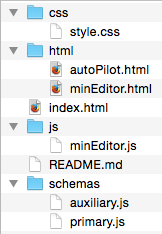
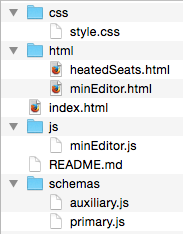
FLUID-5757: Change autoPilot to heatedSeats

diff --git a/src/documents/tutorial-prefsFramework/CreatingAPrefsEditor.md b/src/documents/tutorial-prefsFramework/CreatingAPrefsEditor.md
@@ -40,7 +40,7 @@ and navigate to the `index.html` file in a browser, you should see this interfac
 <figcaption>Figure 2: The screen of the example Preference Editor</figcaption>
 </figure>
 
-This Preference Editor has only one preference – a simple boolean setting for the car’s auto-pilot
+This Preference Editor has only one preference – a simple boolean setting for the car’s heated seats
 feature – and a ‘save’ button. Try it out: If you check the checkbox and click save, the state of
 the preference will be stored in a cookie, and when you reload the page, the checkbox will be set
 to the saved value. Go ahead, try it.
@@ -84,7 +84,7 @@ fluid.defaults("minEditor.primarySchema", {
 
     schema: {
         // the actual specification of the preference
-        "minEditor.autoPilot": {
+        "minEditor.heatedSeats": {
             "type": "boolean",
             "default": false
         }
@@ -132,10 +132,10 @@ This property is the actual JSON definition of the preferences for this Preferen
 </dl>
 
 In this particular example, only a single preference is being defined; a boolean called
-“minEditor.autoPilot”:
+“minEditor.heatedSeats”:
 
 ```javascript
-"minEditor.autoPilot": {
+"minEditor.heatedSeats": {
     "type": "boolean",
     "default": false
 }
@@ -158,7 +158,7 @@ _Coming soon: More information about these two properties_
 A [Panel](../Panels.md) is a [component](../UnderstandingInfusionComponents.md)
 responsible for rendering the user interface controls for a
 preference and tying them to the internal model that represents the preference value.
-The Panel for the auto-pilot preference control is defined in the `minEditor.js` file:
+The Panel for the heated seats preference control is defined in the `minEditor.js` file:
 <aside class="infusion-docs-callout">
 [Components](../UnderstandingInfusionComponents.md) are the core building-blocks of
 any Infusion application.
@@ -169,39 +169,39 @@ relationship between other components.
 
 ```javascript
 /**
- * Panel for the auto-pilot preference
+ * Panel for the heated seats preference
  */
-fluid.defaults("minEditor.panels.autoPilot", {
+fluid.defaults("minEditor.panels.heatedSeats", {
     gradeNames: ["fluid.prefs.panel"],
 
     // the Preference Map maps the information in the primary schema to this panel
     preferenceMap: {
         // the key must match the name of the pref in the primary schema
-        "minEditor.autoPilot": {
-            // this key, "model.autoPilot", is the path into the panel's model
+        "minEditor.heatedSeats": {
+            // this key, "model.heatedSeats", is the path into the panel's model
             // where this preference is stored
-            "model.autoPilot": "default"
+            "model.heatedSeats": "default"
         }
     },
 
     // selectors identify elements in the DOM that need to be accessed by the code;
     // in this case, the Renderer will render data into these particular elements
     selectors: {
-        autoPilot: ".mec-autoPilot"
+        heatedSeats: ".mec-heatedSeats"
     },
 
     // the ProtoTree is basically instructions to the Renderer
     // the keys in the protoTree match the selectors above
     protoTree: {
-        // "${autoPilot}" is a reference to the last part of the model path in the preferenceMap
-        autoPilot: "${autoPilot}"
+        // "${heatedSeats}" is a reference to the last part of the model path in the preferenceMap
+        heatedSeats: "${heatedSeats}"
     }
 });
 ```
 In this code snippet, the Panel is created using a call to the Infusion Framework function
 `fluid.defaults()`, just as the Primary Schema was. As with the Primary Schema, the call to
 `fluid.defaults()` is passed two arguments:
-1. a string name (`"minEditor.panels.autoPilot"`), and
+1. a string name (`"minEditor.panels.heatedSeats"`), and
 2. a JavaScript object containing options for configuring the component – in this case, the Panel.
 
 The screenshot in Figure 2 (above) shows what the Panel looks like to the user: A single checkbox
@@ -219,21 +219,21 @@ into your Panel.Let’s look at this one more closely:
 <pre class="highlight">
 <code class="hljs javascript">{
 preferenceMap: {
-    "minEditor.autoPilot": {
-        "model.autoPilot": "default"
+    "minEditor.heatedSeats": {
+        "model.heatedSeats": "default"
     }
 },</code></pre>
 
-The first line of the  Preference Map, `“minEditor.autoPilot”`, is the name of the preference.
+The first line of the  Preference Map, `“minEditor.heatedSeats”`, is the name of the preference.
 This exactly matches the name we saw in the Primary Schema earlier. The value for this
 key is a JavaScript object that defines how this particular preference relates to the Panel’s
 internal data model.
 
 The content of this  Preference Map is a key/value pair:
 <ul>
-<li> The key, `“model.autoPilot”`, is an [EL path](../FrameworkConcepts.md#el-paths) into the
+<li> The key, `“model.heatedSeats”`, is an [EL path](../FrameworkConcepts.md#el-paths) into the
 Panel’s data model. An “EL path” is just a
-dot-separated path built from names. In this case, it means “the `autoPilot`
+dot-separated path built from names. In this case, it means “the `heatedSeats`
 property of the [`model`](../FrameworkConcepts.md#model-objects) property” of the Panel.
 <aside class="infusion-docs-callout">
 [Models](../FrameworkConcepts.md#model-objects) are central to Infusion, which,
@@ -246,8 +246,8 @@ Most Infusion components have an internal model, for maintaining the state of th
 </ul>
 This  Preference Map is saying two things:
 <ol>
-<li>The preference called `“minEditor.autoPilot”` should be stored in the Panel’s model
-in a property called `autoPilot`, and</li>
+<li>The preference called `“minEditor.heatedSeats”` should be stored in the Panel’s model
+in a property called `heatedSeats`, and</li>
 <li>the initial value for the property should be taken from the `“default”` property
 of the Primary Schema.</li>
 </ul>
@@ -265,24 +265,24 @@ on the information in this `selectors` option.
 Let’s look at this more closely:
 <pre class="highlight">
 <code class="hljs javascript">selectors: {
-    autoPilot: ".mec-autoPilot"
+    heatedSeats: ".mec-heatedSeats"
 },</code></pre>
 
 The content of a `selectors` property is a set of key/value pairs. The key is the ‘name’ of the
 selector and the value is the selector itself. This property has only one selector,
-named `autoPilot`. The value is the CSS selector `".mec-autoPilot"`.
+named `heatedSeats`. The value is the CSS selector `".mec-heatedSeats"`.
 This selector references the actual checkbox in the template for the Panel.
-This template is found in the `html/autoPilot.html` file, which looks like this:
+This template is found in the `html/heatedSeats.html` file, which looks like this:
 
 <pre class="highlight">
 <code class="hljs html">&lt;section class="me-panel"&gt;
-    &lt;h2&gt;Auto-Pilot&lt;/h2&gt;
+    &lt;h2&gt;Heated Seats&lt;/h2&gt;
 
-    &lt;label for="minEditor-autoPilot"&gt;Enable the auto-pilot when the car starts&lt;/label&gt;
-    &lt;input type="checkbox" id="minEditor-autoPilot" class="mec-autoPilot"/&gt;
+    &lt;label for="minEditor-heatedSeats"&gt;Enable the heated seats when the car starts&lt;/label&gt;
+    &lt;input type="checkbox" id="minEditor-heatedSeats" class="mec-heatedSeats"/&gt;
 &lt;/section&gt;</code></pre>
 
-You can see the `“mec-autoPilot”` class name on the `<input>` element.
+You can see the `“mec-heatedSeats”` class name on the `<input>` element.
 </dd>
 <dt>`protoTree`</dt>
 <dd>
@@ -292,16 +292,16 @@ The _[protoTree](../RendererComponentTrees.md)_ is the instructions for how the 
 Let’s look at this more closely:
 <pre class="highlight">
 <code class="hljs javascript">protoTree: {
-    autoPilot: "${autoPilot}"
+    heatedSeats: "${heatedSeats}"
 }</code></pre>
 
 A protoTree contains key/value pairs, where
 * the key is a selector _name_ specified in the `selectors` option, and
 * the value is the specification for what to render into the DOM node referenced by the selector.
 
-Here, the one key `autoPilot` refers to the selector named autoPilot
+Here, the one key `heatedSeats` refers to the selector named heatedSeats
 i.e. the reference to the checkbox in the HTML template.
-The value is a reference to the `autoPilot` property of Panel’s data model.
+The value is a reference to the `heatedSeats` property of Panel’s data model.
 In the Infusion Framework, an _IoC reference_ (IoC stands for Inversion of Control) is a reference
 to an object in the current context using a particular syntax – specifically, the form `{context-name}.some.path.segments`.
 _Coming soon: More information about IoC references._
@@ -341,18 +341,18 @@ auxiliarySchema: {
     // the main template for the preference editor itself
     template: "%templatePrefix/minEditor.html",
 
-    autoPilot: {
+    heatedSeats: {
         // this 'type' must match the name of the pref in the primary schema
-        type: "minEditor.autoPilot",
+        type: "minEditor.heatedSeats",
         panel: {
             // this 'type' must match the name of the panel grade created for this pref
-            type: "minEditor.panels.autoPilot",
+            type: "minEditor.panels.heatedSeats",
 
             // selector indicating where, in the main template, to place this panel
-            container: ".mec-autoPilot",
+            container: ".mec-heatedSeats",
 
             // the template for this panel
-            template: "%templatePrefix/autoPilot.html"
+            template: "%templatePrefix/heatedSeats.html"
         }
     }
 }
@@ -399,40 +399,40 @@ The template property specifies the main HTML template for the entire Preference
 You can see the full text of this file, `minEditor.html`, in the github repo:
 https://github.com/fluid-project/infusion/tree/master/examples/framework/preferences/minimalEditor/html/minEditor.html
 The main thing to note in the template is the placeholder for the Panel,
-in this example a `<div>` with the class `mec-autoPilot”`:
+in this example a `<div>` with the class `mec-heatedSeats”`:
 
 ```html
-<!-- placeholder for the auto-pilot preference panel -->
-<div class="mec-autoPilot"></div>
+<!-- placeholder for the heated seats preference panel -->
+<div class="mec-heatedSeats"></div>
 ```
 
 The Framework will insert the constructed Panel into this div.
 
 ##### Preferences #####
-The next thing in the Auxiliary Schema is the configuration for the auto-pilot preference:
+The next thing in the Auxiliary Schema is the configuration for the heated seats preference:
 
 ```javascript
-autoPilot: {
+heatedSeats: {
     // this 'type' must match the name of the pref in the primary schema
-    type: "minEditor.autoPilot",
+    type: "minEditor.heatedSeats",
 
     panel: {
         // this 'type' must match the name of the panel grade created for this pref
-        type: "minEditor.panels.autoPilot",
+        type: "minEditor.panels.heatedSeats",
 
         // selector indicating where, in the main template, to place this panel
-        container: ".mec-autoPilot",
+        container: ".mec-heatedSeats",
 
         // the template for this panel
-        template: "%templatePrefix/autoPilot.html"
+        template: "%templatePrefix/heatedSeats.html"
     }
 }
 ```
 
-(The name of the property, `autoPilot`, can actually be anything, but it’s helpful to use the name
+(The name of the property, `heatedSeats`, can actually be anything, but it’s helpful to use the name
 of the preference.)
 
-In our example, the auto-pilot preference configuration includes two things:
+In our example, the heated seats preference configuration includes two things:
 1. the type of the preference, and
 2. information about the Panel.
 
@@ -520,7 +520,7 @@ minimum and maximum, as well as the step value:
 
 ```javascript
 schema: {
-    "minEditor.autoPilot": {
+    "minEditor.heatedSeats": {
         "type": "boolean",
         "default": false
     },
@@ -539,7 +539,7 @@ We will need an HTML template for the Panel. Since the preference is a range,
 we’ll use a slider for the Adjuster.
 
 Create a new file in the `html` folder called `radioVolume.html` and use a structure similar
-to the one already used for the auto-pilot template:
+to the one already used for the heated seats template:
 
 ```html
 <section class="me-panel">
@@ -556,7 +556,7 @@ Primary Schema and will be added in by the Preference Editor.
 #### Panel component ####
 
 In the `minEditor.js` file, we'll create the Panel component for this preference.
-As with the auto-pilot Panel, we use a call to `fluid.defaults()`
+As with the heated seats Panel, we use a call to `fluid.defaults()`
 and set the grade to `“fluid.prefs.panel”`:
 
 ```javascript
@@ -565,7 +565,7 @@ fluid.defaults("minEditor.panels.radioVolume", {
     // options will go here
 });
 ```
-As with the auto-pilot Panel, we need a  Preference Map:
+As with the heated seats Panel, we need a  Preference Map:
 
 ```javascript
 fluid.defaults("minEditor.panels.radioVolume", {
@@ -628,7 +628,7 @@ fluid.defaults("minEditor.panels.radioVolume", {
 });
 ```
 
-As we saw with the auto-pilot Panel, we need to define a selector to identify the HTML
+As we saw with the heated seats Panel, we need to define a selector to identify the HTML
 element where the preference value will be bound:
 
 ```javascript
@@ -661,7 +661,7 @@ fluid.defaults("minEditor.panels.radioVolume", {
 
 Finally, we need to define the Renderer protoTree – the instructions for rendering
 the model value into the template. This protoTree will need to be a little bit more complicated
-than what we used for the auto-pilot preference. That protoTree needed to do only one thing:
+than what we used for the heated seats preference. That protoTree needed to do only one thing:
 bind the model value to the input element. For the range input, we still need to bind the model
 value, but we _also_ need to set the `min`, `max` and `step` attributes of the element. For this,
 a simple key/value pair isn’t enough.Instead of a simple string reference as the value,
@@ -745,12 +745,12 @@ fluid.defaults("minEditor.panels.radioVolume", {
 ### Adding the Panel to the Editor ###
 
 We saw above that the main HTML template for the tool, `html/minEditor.html`,
-has a placeholder in it for the auto-pilot Panel
+has a placeholder in it for the heated seats Panel
  We will add another placeholder for the radio volume Panel:
 
 ```html
-<!-- placeholder for the auto-pilot preference panel -->
-<div class="mec-autoPilot"></div>
+<!-- placeholder for the heated seats preference panel -->
+<div class="mec-heatedSeats"></div>
 
 <!-- placeholder for the radio volume preference panel -->
 <div class="radioVolume"></div>
